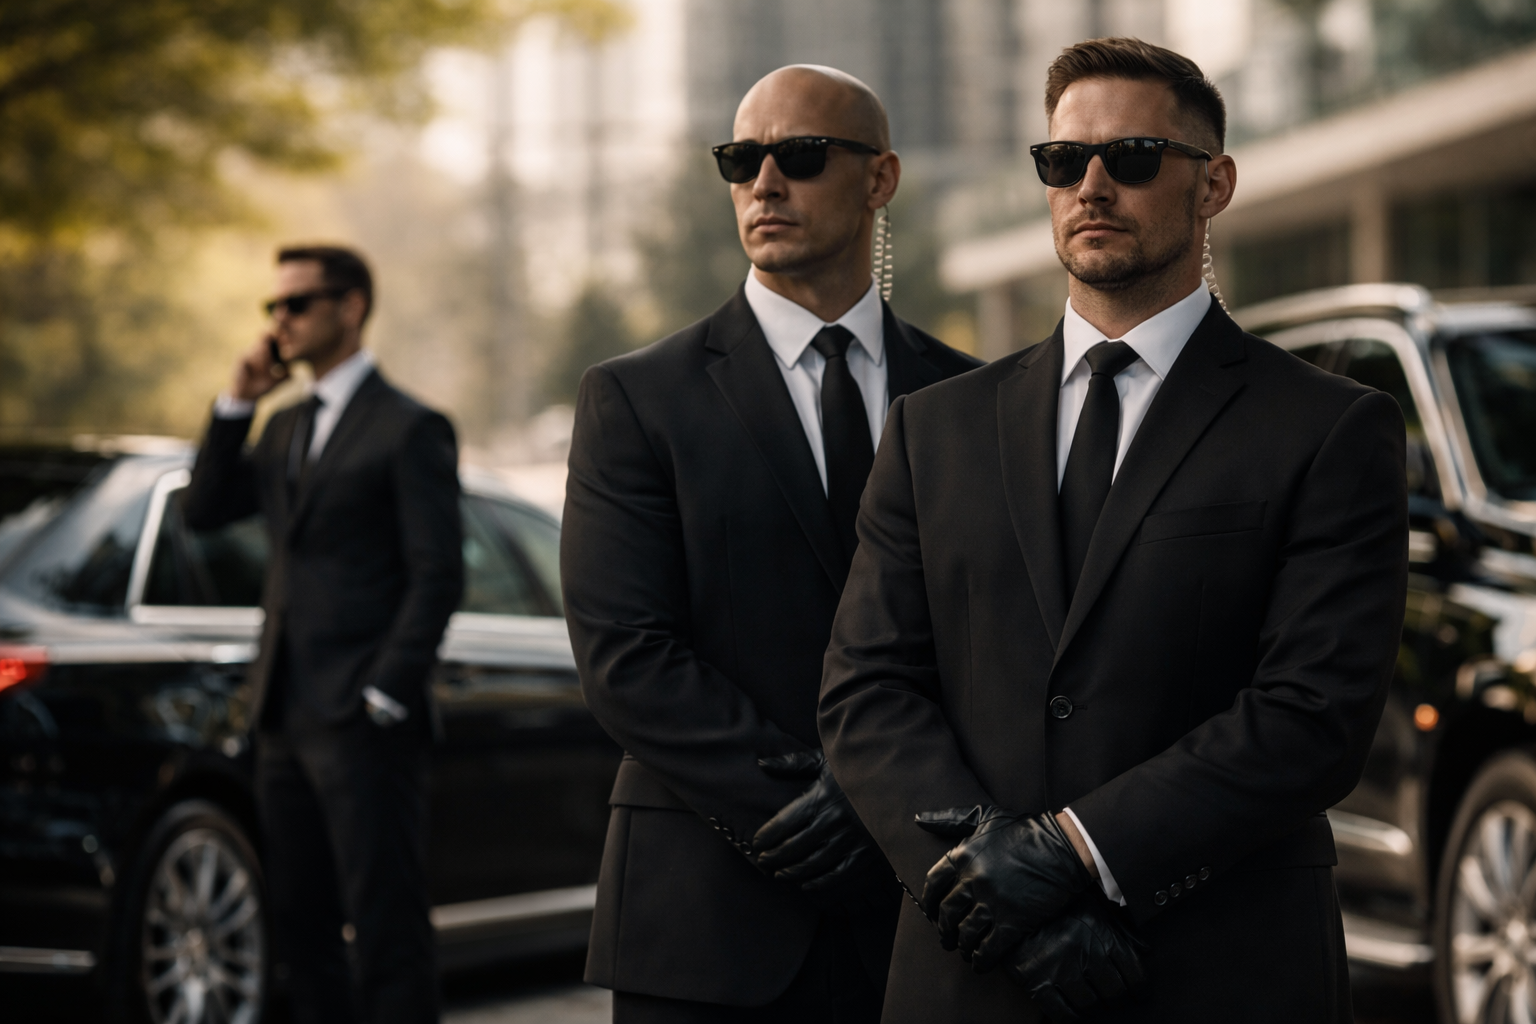
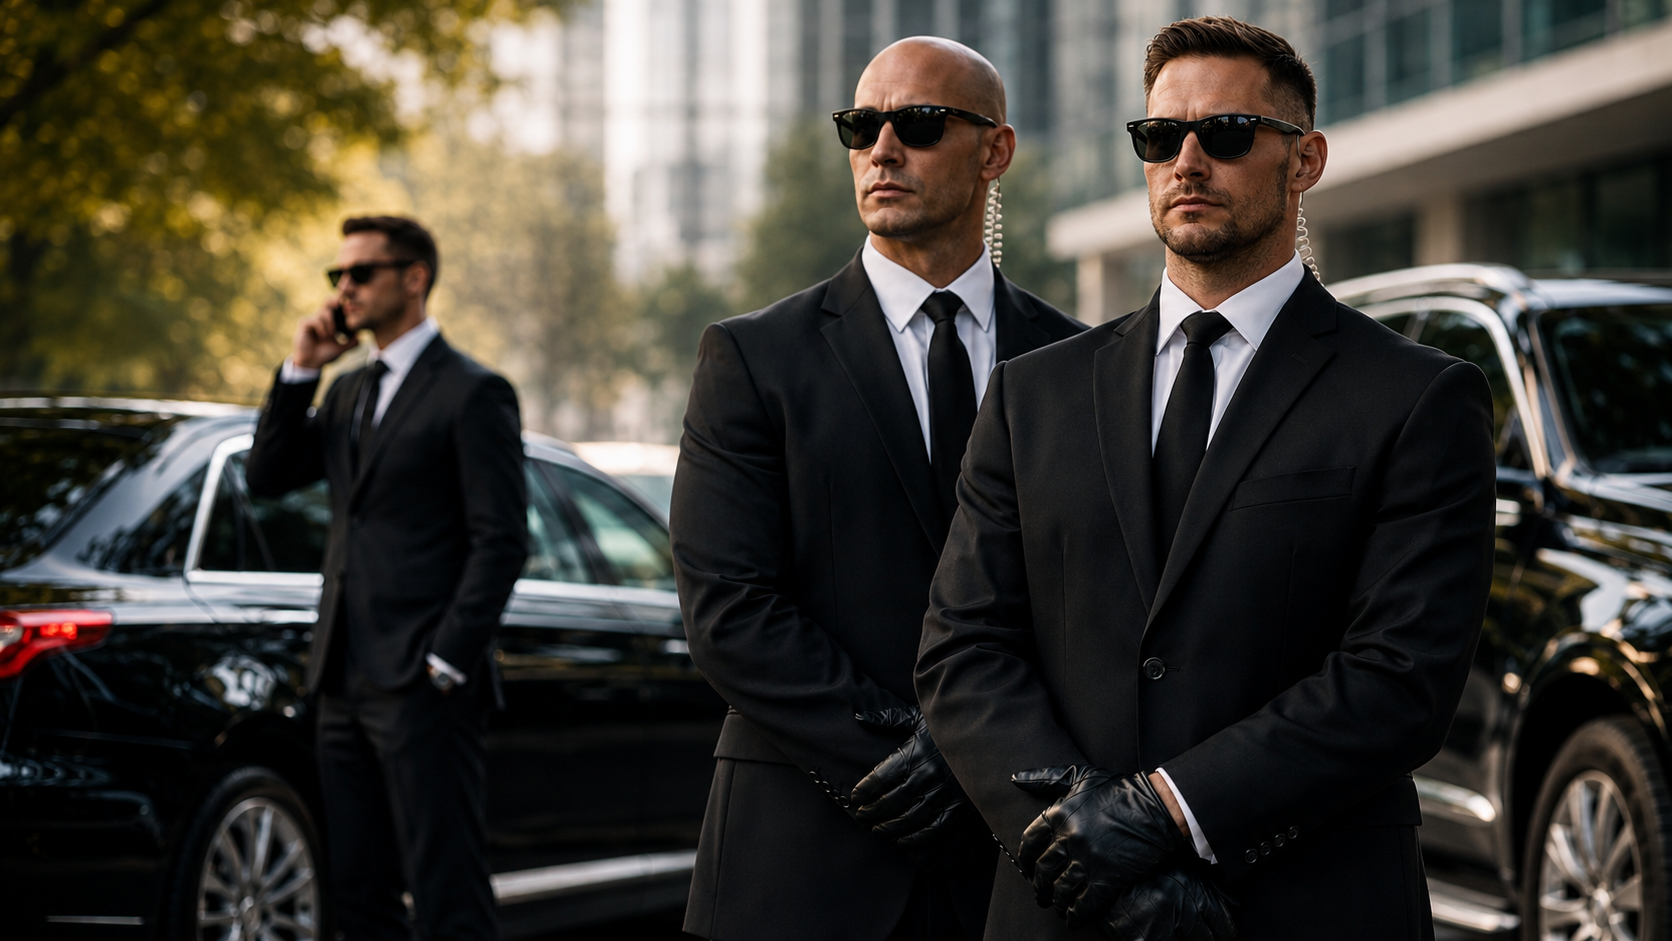
feat: update images and enhance MainSecuritySection styling
- Replaced the old security guard workspace image with a new PNG version for improved quality.
- Removed the outdated JPG version of the security guard workspace image.
- Updated the MainSecuritySection component to enhance background styling for better visual appeal and consistency.

diff --git a/src/features/MainSection/MainSecuritySection/index.tsx b/src/features/MainSection/MainSecuritySection/index.tsx
@@ -22,11 +22,12 @@ const MainSecuritySection: React.FC<{
           quality={100}
           priority
         />
+        <div className="absolute left-0 top-0 z-0 h-full w-full bg-[#06070A]/28" />
         <div
-          className="absolute inset-0 z-0"
+          className="absolute left-0 top-0 z-0 h-full w-full"
           style={{
             background:
-              "linear-gradient(to bottom, rgba(6, 7, 10, 0.3) 0%, rgba(6, 7, 10, 0.2) 50%, rgba(6, 7, 10, 0.5) 100%)",
+              "linear-gradient(to bottom, transparent 0%, transparent 71%, #06070A 100%)",
           }}
         />
         <div className="z-10 mx-auto w-full max-w-[1360px] px-5 sm:px-7 md:px-10 lg:px-20 flex flex-col items-center sm:items-start">
